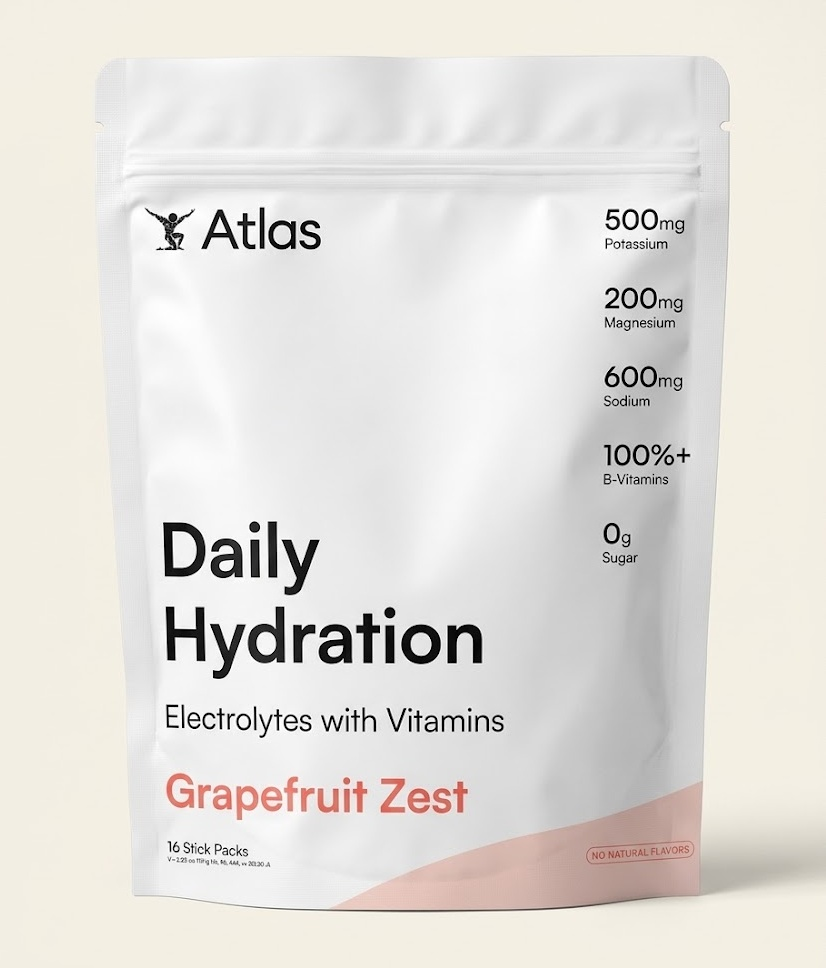
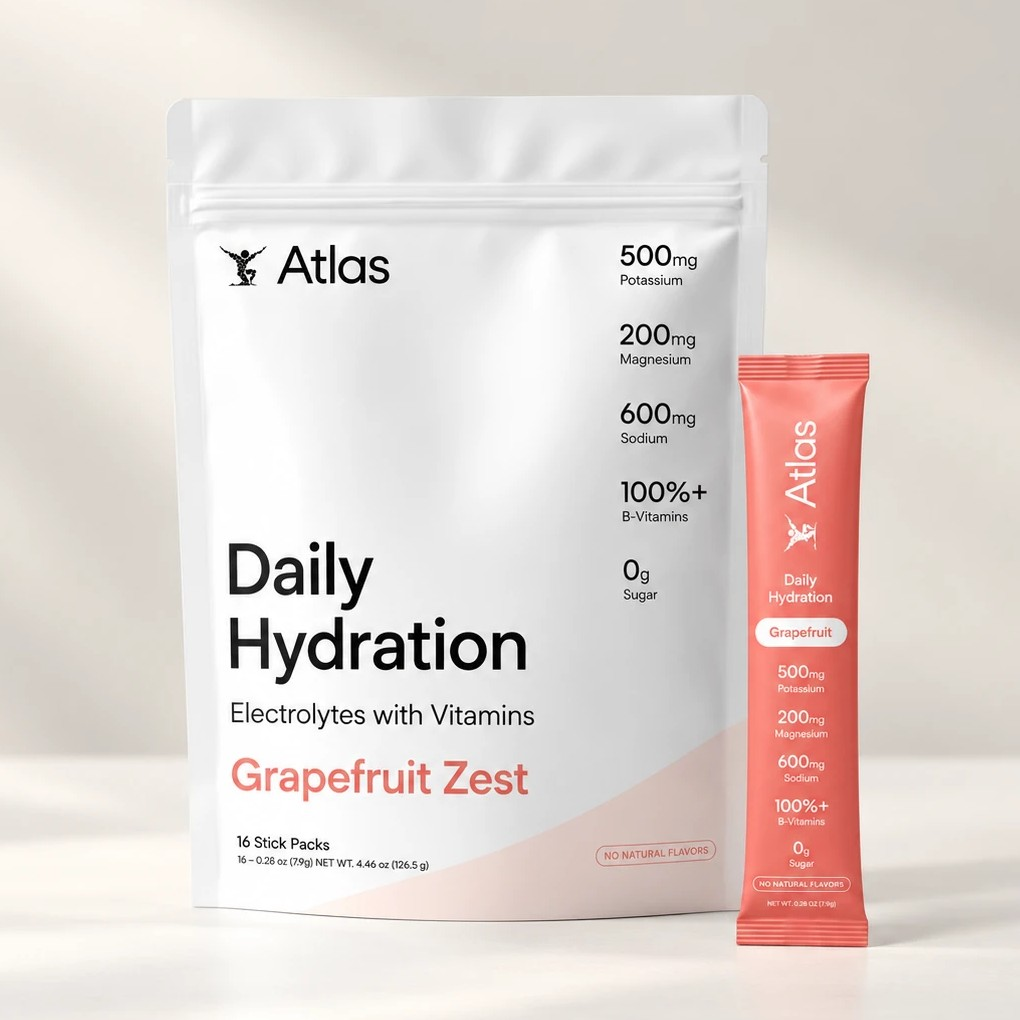
Update grapefruit cover image on homepage and product page (#156)
* Replace grapefruit cover image, trim gallery to 2 images

Swaps in the new grapefruit packaging photo as the primary/cover
image, hosted locally (centered on the pouch using measured pixel
edges rather than the original framing, and verified against the
mobile gallery's forced 1:1 object-fit:cover crop so the full pouch
and its copy stay in frame at both breakpoints). Gallery is now just
this cover shot plus the existing supplement facts photo — the two
lifestyle/mixing shots are removed. Updated OpenGraph and JSON-LD
image references to match.

Claude-Session: https://claude.ai/code/session_01P2MNa3iEDQTzhGqqMWm9Uf

* Update grapefruit cover image on homepage and product page

The homepage featured-product carousel had its own independent
FLAVOR_IMAGES map, separate from the dedicated /products/grapefruit
page, so the prior grapefruit image swap never reached the homepage.
Replace the cover photo in both places with the new pouch + stick
pack studio shot, cropped and centered on the product's true visual
center so it renders correctly in both the natural-ratio desktop
gallery and the forced-square mobile crop.

Claude-Session: https://claude.ai/code/session_01P2MNa3iEDQTzhGqqMWm9Uf

---------

diff --git a/app/components/home/FeaturedProduct.tsx b/app/components/home/FeaturedProduct.tsx
@@ -19,7 +19,7 @@ const FLAVOR_IMAGES = {
     { src: "https://cdn.shopify.com/s/files/1/0595/8133/3578/files/4_b0347d0a-fc88-4c2b-b4a7-3946604c666e.jpg?v=1771507860", alt: "Atlas Strawberry Lemonade active lifestyle" },
   ],
   grapefruit: [
-    { src: "https://cdn.shopify.com/s/files/1/0595/8133/3578/files/1_1a252c57-dc62-4c7b-a6b1-0f9677ce6b6f.jpg?v=1769181320", alt: "Atlas Grapefruit pouch and stick pack" },
+    { src: "/images/products/grapefruit/atlas-grapefruit-cover.jpg", alt: "Atlas Grapefruit pouch and stick pack" },
     { src: "https://cdn.shopify.com/s/files/1/0595/8133/3578/files/3_895d9a50-ff83-4081-a78b-7c5034614a38.jpg?v=1769181320", alt: "Atlas Grapefruit lifestyle" },
     { src: "https://cdn.shopify.com/s/files/1/0595/8133/3578/files/6_9aa2f5c5-dc91-499b-a36e-2ddb0ba45f49.jpg?v=1769181321", alt: "Atlas Grapefruit mixing" },
     { src: "https://cdn.shopify.com/s/files/1/0595/8133/3578/files/4_04a1c3d2-929b-4150-bf92-64f0f83445b1.jpg?v=1769181321", alt: "Atlas Grapefruit active lifestyle" },

diff --git a/app/products/grapefruit/page.tsx b/app/products/grapefruit/page.tsx
@@ -95,7 +95,7 @@ const faqJsonLd = {
 };
 
 const images = [
-  { src: "/images/products/grapefruit/atlas-grapefruit-cover.jpg", alt: "Atlas Grapefruit Zest pouch" },
+  { src: "/images/products/grapefruit/atlas-grapefruit-cover.jpg", alt: "Atlas Grapefruit pouch and stick pack" },
   { src: "https://cdn.shopify.com/s/files/1/0595/8133/3578/files/4_04a1c3d2-929b-4150-bf92-64f0f83445b1.jpg?v=1769181321", alt: "Atlas Grapefruit supplement facts" },
 ];
 
